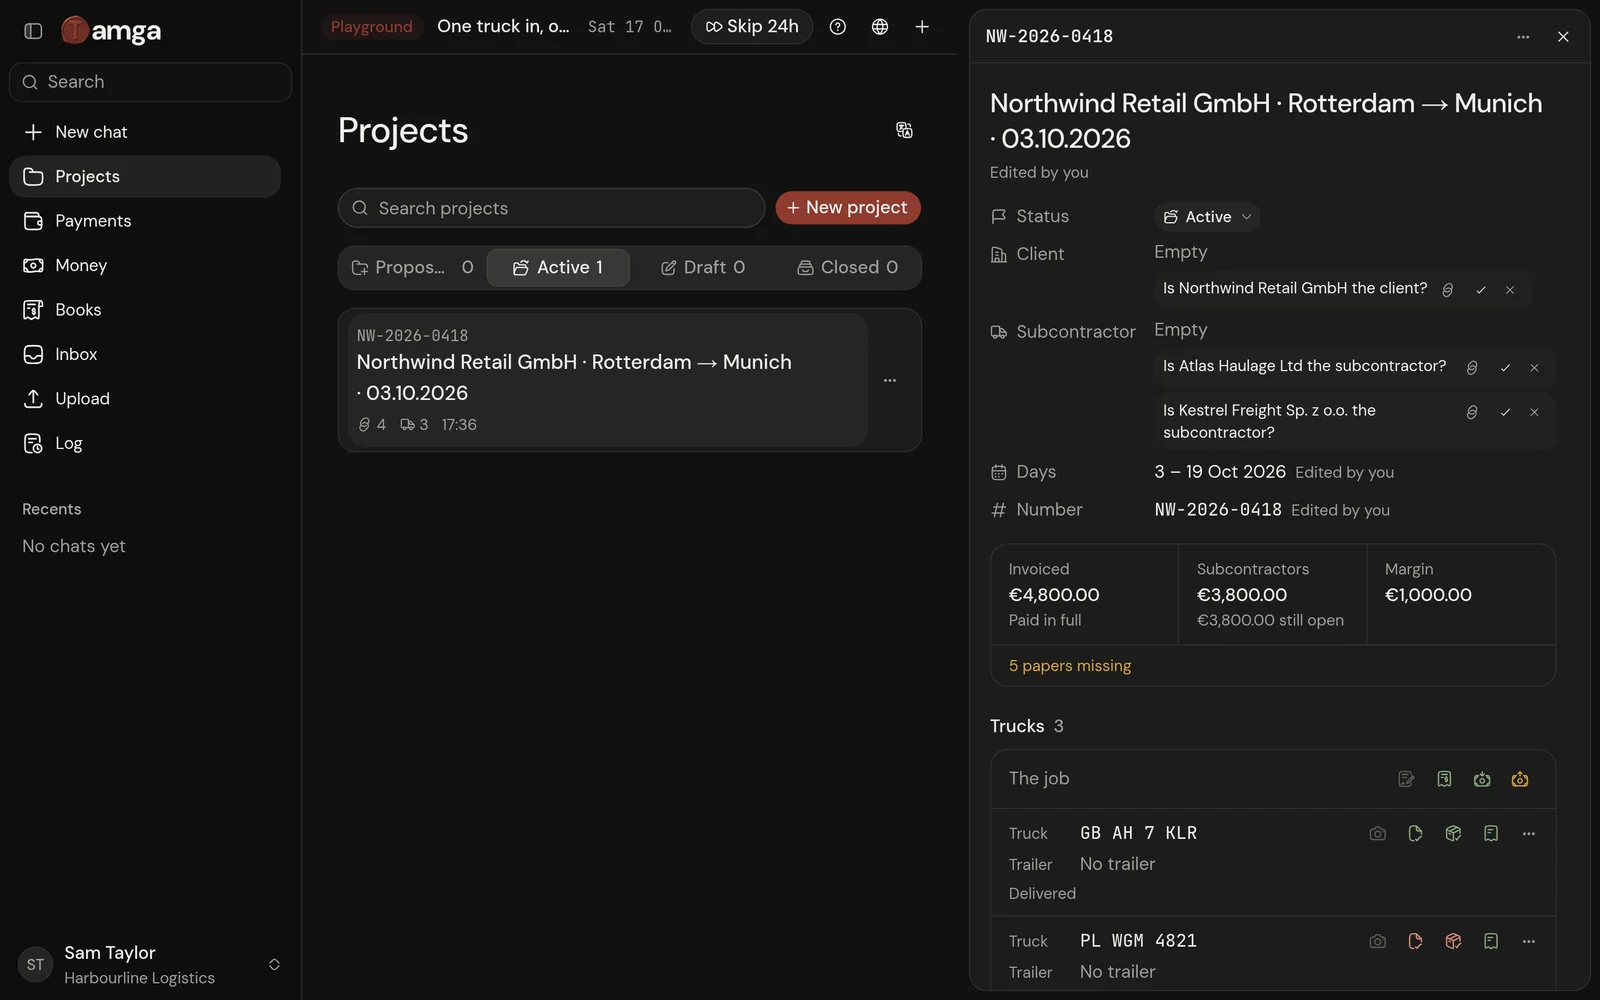
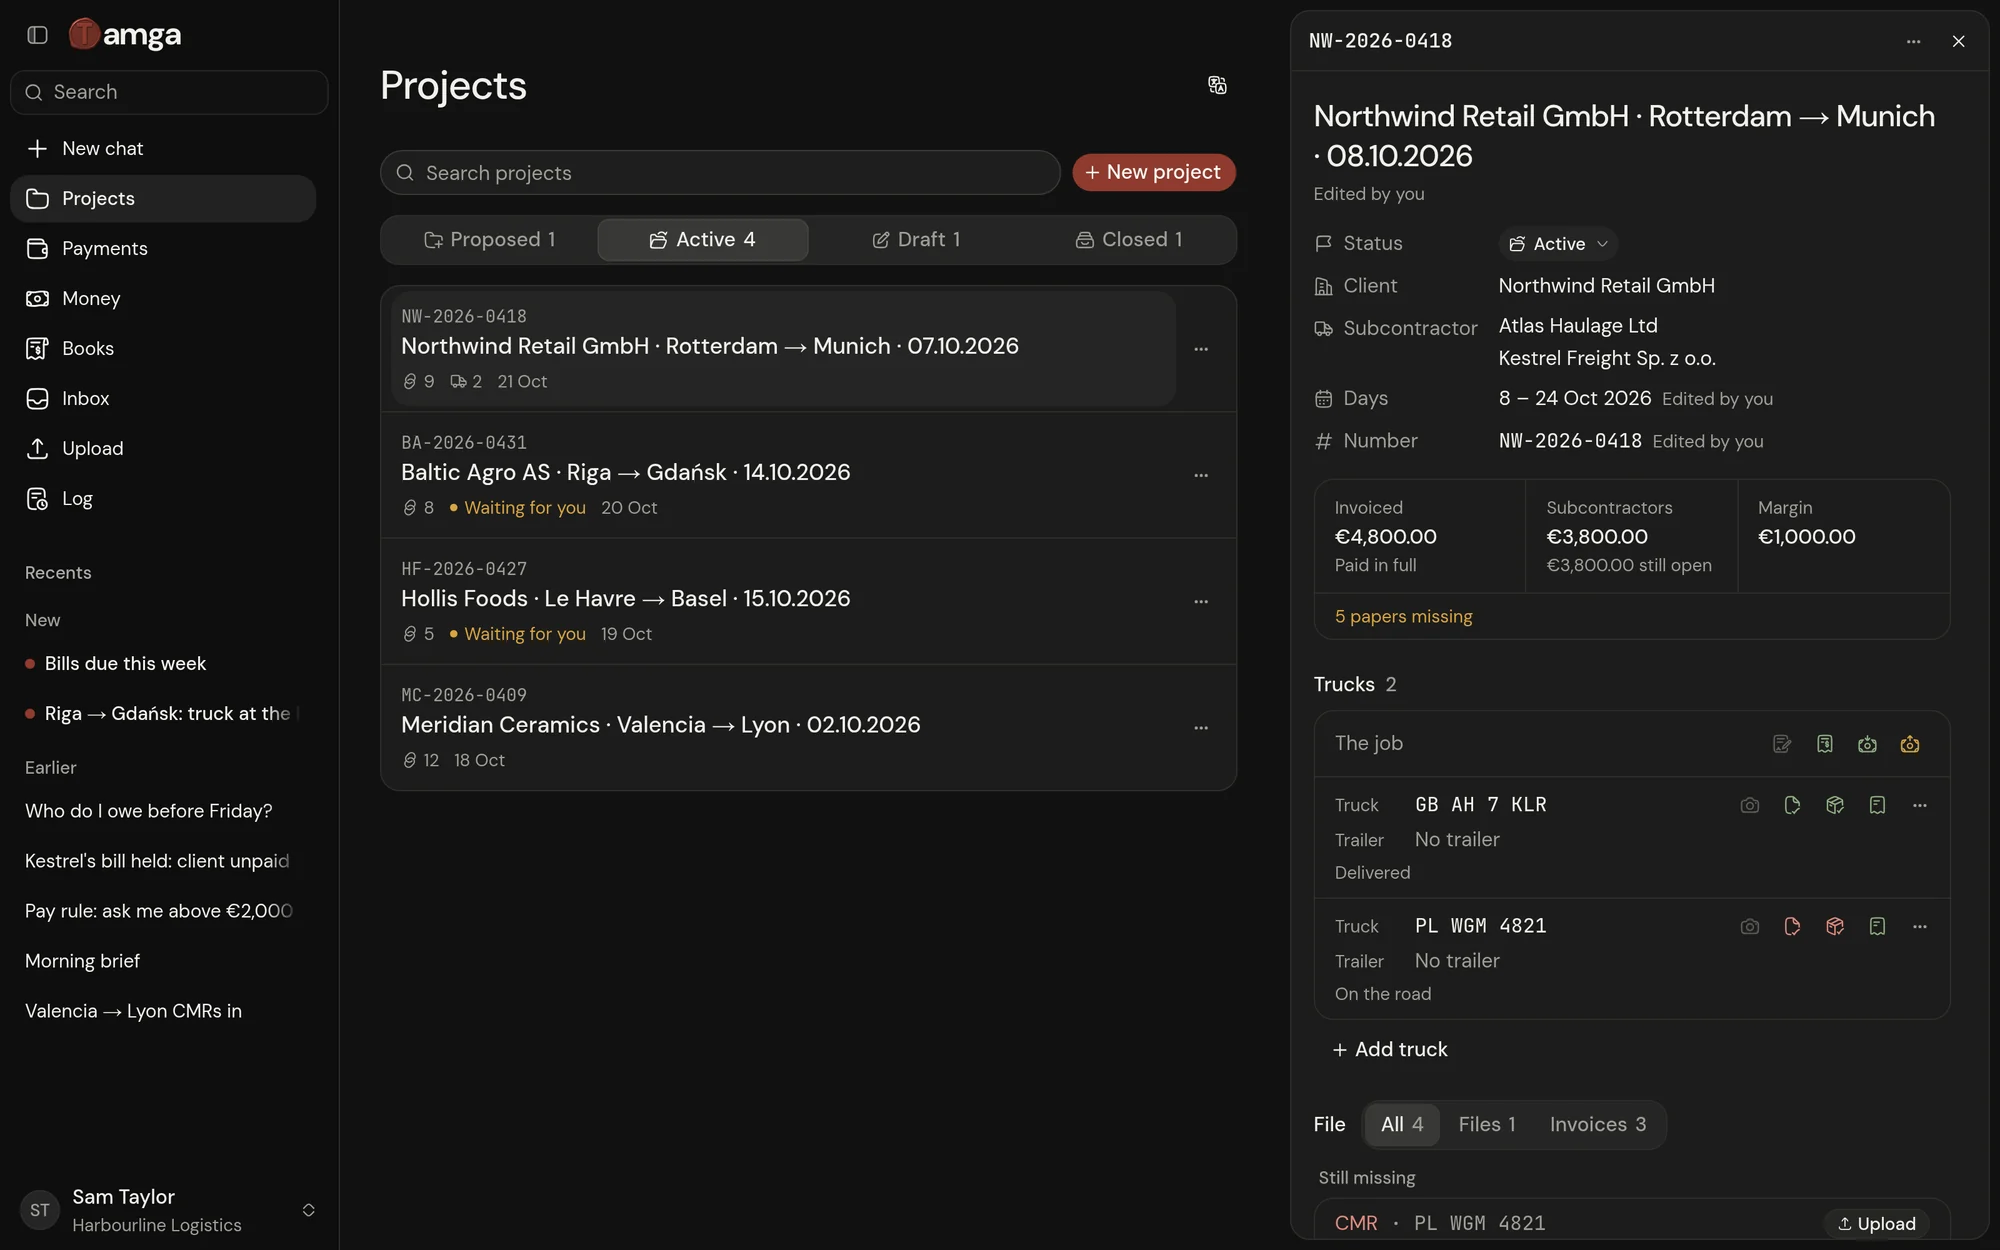
docs: the README shows the owner's app, not the playground
A job beside the company's other jobs and chats, the Money page, and a job on a phone, each in light and dark, with made-up firms.

diff --git a/README.md b/README.md
@@ -20,7 +20,7 @@
 
 <picture>
   <source media="(prefers-color-scheme: dark)" srcset=".github/readme/project-dark.webp">
-  <img src=".github/readme/project-light.webp" alt="A job in Tamga: its client and subcontractors suggested with the evidence behind each, what was invoiced and what is still owed, and its trucks with their papers">
+  <img src=".github/readme/project-light.webp" alt="A job in Tamga: its client and subcontractors, what was invoiced and what is still owed, and its trucks with their papers, beside the company's other jobs and the chats Tamga started">
 </picture>
 
 > In the steppe, a *tamga* proved what was yours. Tamga proves the job was done before anyone gets paid.
@@ -52,11 +52,16 @@ World panel, skip a day, approve a bill, and follow the payment on Arcscan.
   <tr>
     <td width="66%">
       <picture>
-        <source media="(prefers-color-scheme: dark)" srcset=".github/readme/tour-dark.webp">
-        <img src=".github/readme/tour-light.webp" alt="The guided tour lighting the Payments page">
+        <source media="(prefers-color-scheme: dark)" srcset=".github/readme/money-dark.webp">
+        <img src=".github/readme/money-light.webp" alt="Money: the company's accounts in each currency, what comes in and goes out over the next four weeks, and each movement">
       </picture>
     </td>
-    <td width="34%"><img src=".github/readme/phone-proof.webp" alt="On a phone, a proof's sources in a sheet from the foot of the screen"></td>
+    <td width="34%">
+      <picture>
+        <source media="(prefers-color-scheme: dark)" srcset=".github/readme/phone-dark.webp">
+        <img src=".github/readme/phone-light.webp" alt="On a phone, a job with its client, subcontractors, money and trucks">
+      </picture>
+    </td>
   </tr>
 </table>
 
